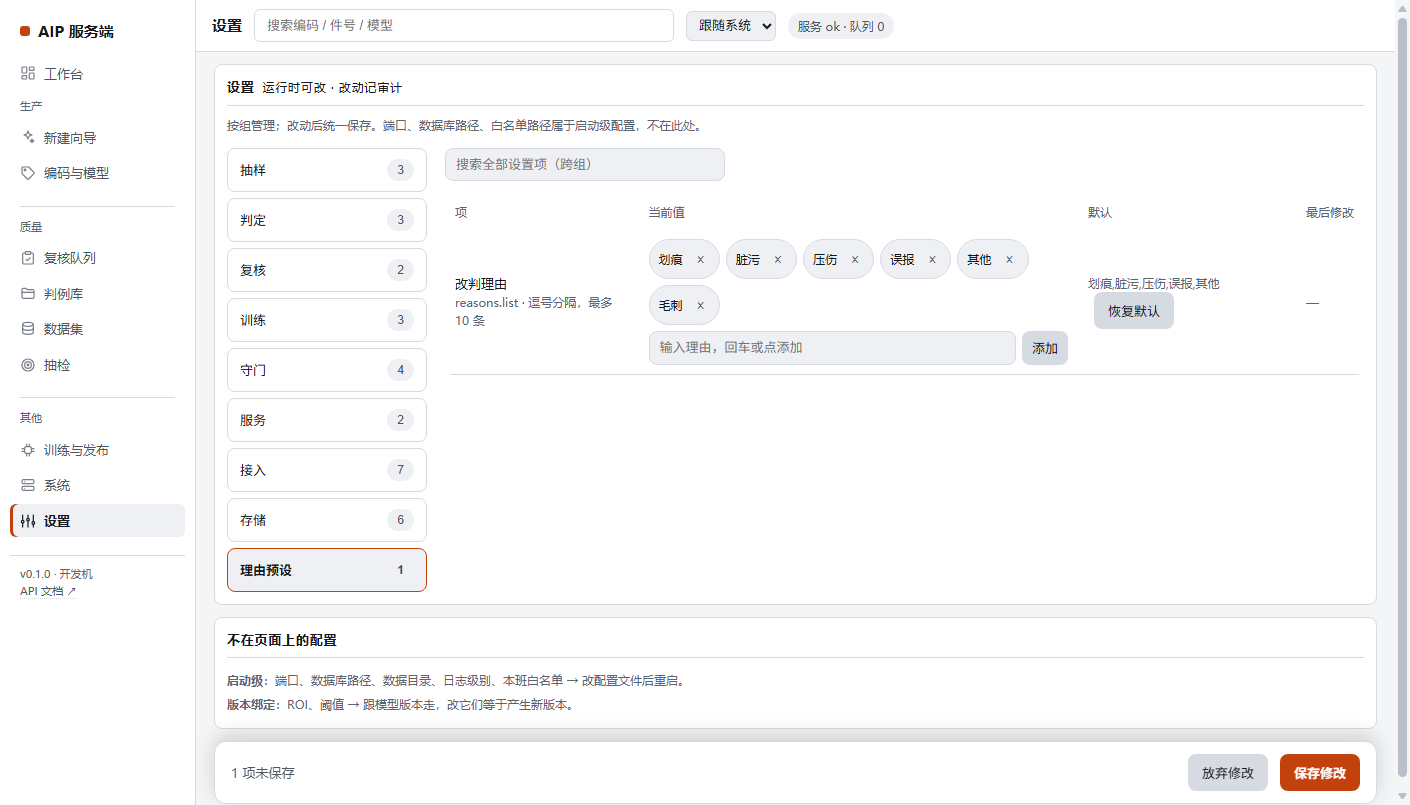
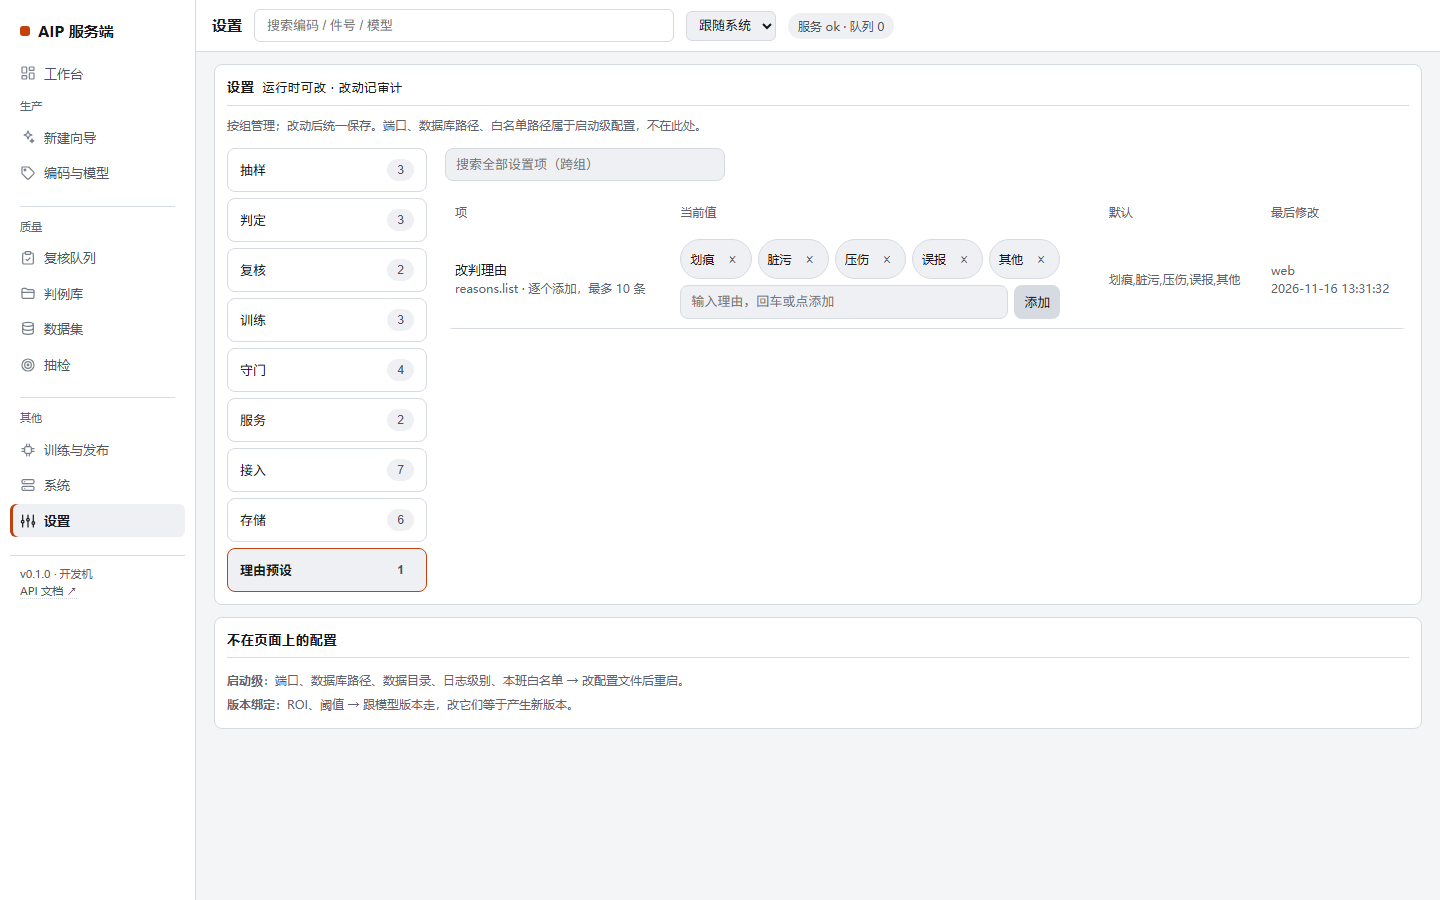
ux: 设置页分组说明、默认值人话、改动行高亮与本组恢复默认

diff --git a/aip/web/admin.html b/aip/web/admin.html
@@ -288,6 +288,8 @@
   .chip-del:hover{color:var(--bad)}
   .chip-new{display:flex;gap:6px}
   .chip-new .chip-input{flex:1;min-width:120px}
+  .settings-help{margin:0 0 10px;font-size:13px}
+  .row-dirty td{background:color-mix(in oklab,var(--brand) 7%,transparent)}
   .next-step{margin-top:12px;background:var(--g2);border:1px solid var(--g3);border-radius:6px;padding:10px 12px;font-size:13px}
   .next-step b{color:var(--t1)}
   .storage-tree summary{cursor:pointer;font-size:13px;color:var(--t2);margin-top:4px}
@@ -1900,6 +1902,17 @@ let settingsState = { group: "" };
 let settingsDirty = null;
 
 const SETTING_ORDER = ["抽样", "判定", "复核", "训练", "守门", "服务", "接入", "存储", "理由预设"];
+const GROUP_HELP = {
+  抽样: "盲判抽检的抽样规模、关批门槛与三方签字要求。",
+  判定: "判定分数的默认阈值、灰区路由与过杀门槛。",
+  复核: "复核页默认是否展示参考样例、理由预设。",
+  训练: "数据集冻结、训练提交与发布前的守门条件。",
+  守门: "发布/回滚时的指标与样本量门槛，防止低质量版本上线。",
+  服务: "模型缓存、心跳与后台维护任务。",
+  接入: "接口文档与客户端接入方式。",
+  存储: "数据目录迁移、备份还原、证据保留期。",
+  理由预设: "复核判 NG 时可选的改判理由，按顺序对应键盘 1~9。",
+};
 
 async function renderSettings() {
   const rows = await api("/api/settings");
@@ -1978,13 +1991,21 @@ async function renderSettings() {
         <div class="settings-body">
           <div class="filterbar">
             <input id="set_q" placeholder="搜索全部设置项（跨组）" aria-label="搜索全部设置项" style="max-width:280px">
+            <button class="ghost" id="setGroupDefaults" title="把本组所有项改回默认值（仍需保存）">本组恢复默认</button>
           </div>
+          <p class="muted settings-help">${esc(GROUP_HELP[group] || "")}　改动先暂存，点底部「保存修改」才生效。</p>
           <table><caption class="sr-only">${esc(group)} 配置</caption>
             <thead><tr><th scope="col">项</th><th scope="col">当前值</th><th scope="col">默认</th><th scope="col">最后修改</th></tr></thead>
             <tbody id="setRows">
               ${rows.map(r => {
                 const val = Array.isArray(r.value) ? r.value.join(",") : r.value;
                 const def = Array.isArray(r.default) ? r.default.join(",") : r.default;
+                const fmt = (v) => {
+                  if (r.kind === "bool") return (v === true || v === "true") ? "开启" : "关闭";
+                  if (r.key === "review.gray_route") return v === "stop" ? "直接拦停" : "进待复核";
+                  if (Array.isArray(v)) return v.join("、");
+                  return String(v);
+                };
                 const isDefault = String(val) === String(def);
                 const bound = (r.minimum != null || r.maximum != null)
                   ? `（范围 ${r.minimum ?? "-"} ~ ${r.maximum ?? "-"}）` : "";
@@ -2019,7 +2040,7 @@ async function renderSettings() {
                         <button class="ghost" data-clear-token title="清空即关闭校验">清空</button>` : ""}
                     </div>
                   </td>
-                  <td class="muted">${esc(def)}
+                  <td class="muted">${esc(fmt(r.default))}
                     <button class="ghost row-reset" data-def="${esc(r.key)}" ${isDefault ? "hidden" : ""}>恢复默认</button>
                   </td>
                   <td class="muted">${r.updated_by ? esc(r.updated_by) + "<br>" + fmtTime(r.updated_at) : "—"}</td>
@@ -2114,6 +2135,7 @@ async function renderSettings() {
       const orig = Array.isArray(row.value) ? row.value.join(",") : row.value;
       if (String(value) === String(orig)) dirty.delete(inp.dataset.k);
       else dirty.set(inp.dataset.k, value);
+      inp.closest("tr")?.classList.toggle("row-dirty", dirty.has(inp.dataset.k));
       const resetBtn = document.querySelector(`[data-def="${inp.dataset.k}"]`);
       const defVal = Array.isArray(row.default) ? row.default.join(",") : row.default;
       if (resetBtn) resetBtn.hidden = String(inp.value) === String(defVal);
@@ -2133,6 +2155,20 @@ async function renderSettings() {
       toast(`已恢复默认：${row.label}`);
     };
   });
+
+  $("setGroupDefaults").onclick = () => {
+    if (!confirm(`把「${group}」组全部改回默认值？改动仍需点保存才生效。`)) return;
+    inGroup.forEach(r => {
+      const inp = document.querySelector(`[data-k="${r.key}"]`);
+      if (!inp) return;
+      const defVal = Array.isArray(r.default) ? r.default.join(",") : r.default;
+      if (inp.type === "hidden") inp.value = String(defVal);
+      else inp.value = String(defVal);
+      inp.dispatchEvent(new Event("input", {bubbles: true}));
+      if (r.kind === "list") paintChips(r.key);
+    });
+    toast(`已把「${group}」组改回默认，记得保存`);
+  };
 
   applyFilter();
 
